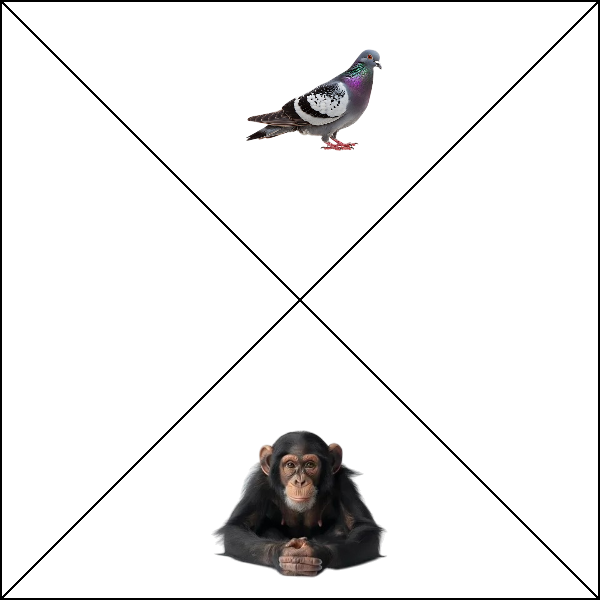
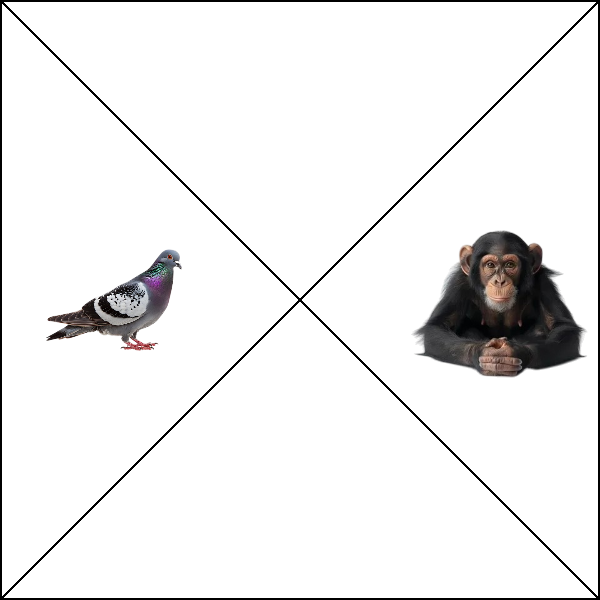
исправлен баг для генерации блоков

diff --git a/generate_level.py b/generate_level.py
@@ -44,8 +44,8 @@ def generate(img_width, img_height, image_direct, format, field_direct, final_di
     #    3
     coords_for_image = [(0, img_height), (img_width, 0), (2 * img_width, img_height), (img_width, img_height * 2)]
     field = [[("", 1) for i in range(4)] for x in range(4)]
-    indexes_images = [(0, 2), (1, 3), (0, 2), (1, 3)]
-    indexes_text = [(1, 3), (0, 2), (1, 3), (0, 2)]
+    indexes_images = [(0, 2), (1, 3), (1, 3), (0, 2)]
+    indexes_text = [(1, 3), (0, 2), (0, 2), (1, 3)]
     counter = 1
     for i in range(4):
         background = Image.open(f'{field_direct}/{i + 1}.png')
@@ -65,6 +65,6 @@ def generate(img_width, img_height, image_direct, format, field_direct, final_di
 
 
 if __name__ == "__main__":
-    # generate(IMAGE_WIDTH, IMAGE_HEIGHT, DIRECTORY_IMAGES, FORMAT_IMAGE, DIRECTORY_FIELD, DIRECTORY_FINAL_FIELD) # результат в final_field
+    generate(IMAGE_WIDTH, IMAGE_HEIGHT, DIRECTORY_IMAGES, FORMAT_IMAGE, DIRECTORY_FIELD, DIRECTORY_FINAL_FIELD) # результат в final_field
     # generate_field("test")
-    text_on_pic("1.png", )
+    # text_on_pic("1.png", )
